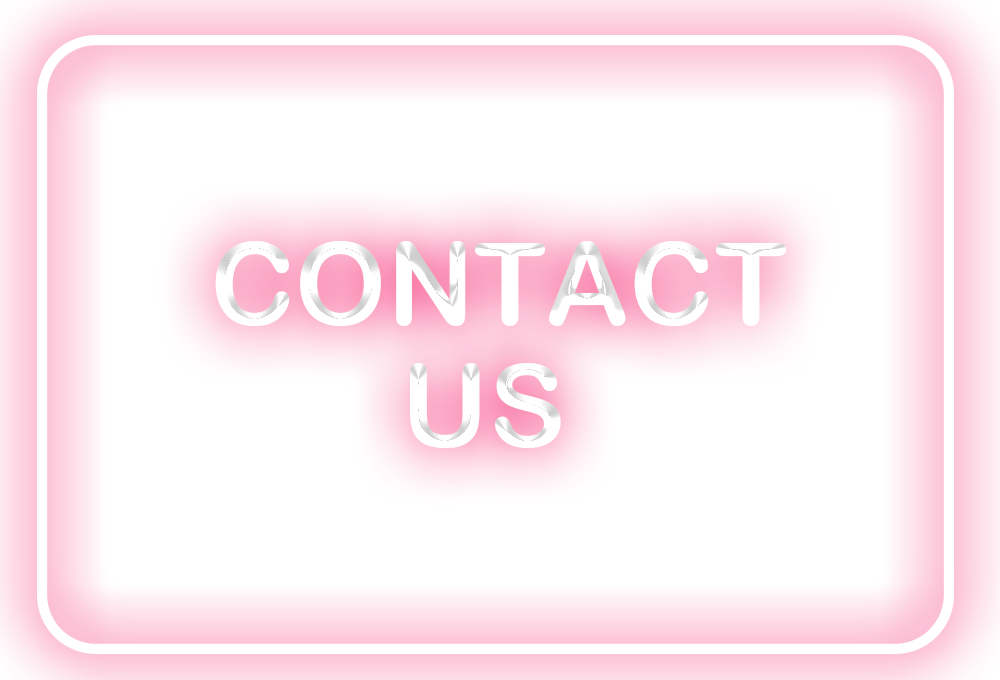
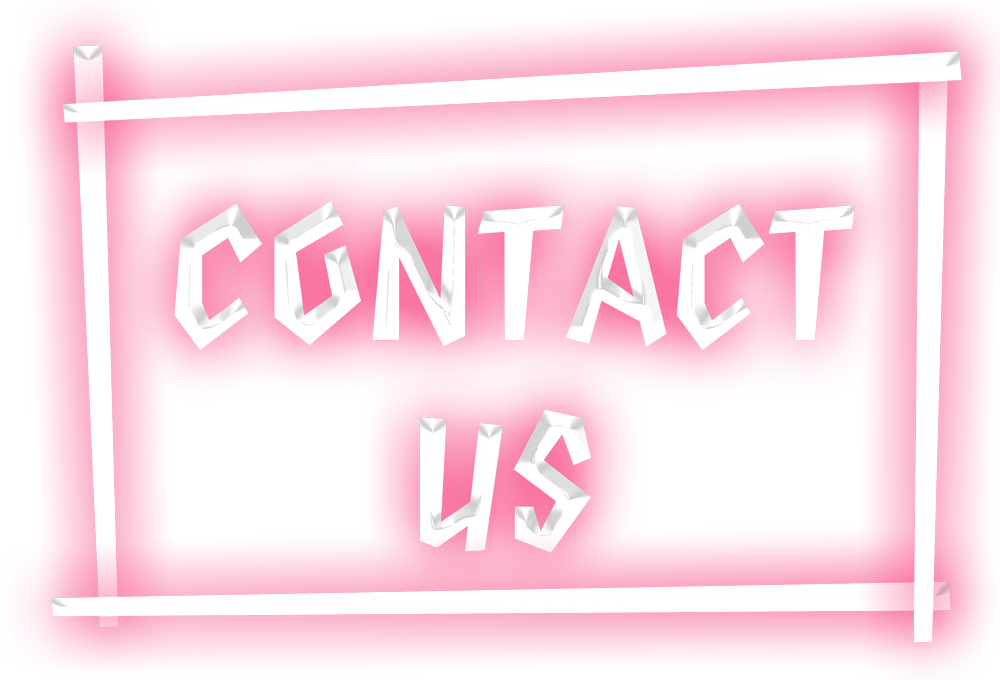
indexのちょい変更

diff --git a/re_css/style.css b/re_css/style.css
@@ -497,7 +497,8 @@
   transition: 0.5s;
 }
 .viewmore:hover {
-  filter: brightness(70%);
+  filter: brightness(200%);
+  transform: rotate(5deg);
 }
 @media screen and (max-width: 1024px) {
   .viewmore {
@@ -756,8 +757,12 @@
   font-weight: 700;
   font-style: normal;
   font-size: 6rem;
+  width: 30%;
   color: #fff;
   text-align: center;
+}
+.contact_button img {
+  width: 100%;
 }
 @media screen and (max-width: 768px) {
   .contact_button {
@@ -1059,9 +1064,28 @@ body {
   position: relative;
   z-index: 1;
   background-image: url(../img/back.png);
+  background-position: 0 0;
   background-size: auto;
   width: 100%;
   overflow: hidden;
+  -webkit-animation: bgroop 50s linear infinite;
+          animation: bgroop 50s linear infinite;
+}
+@-webkit-keyframes bgroop {
+  from {
+    background-position: 0 0;
+  }
+  to {
+    background-position: -1985px 0;
+  }
+}
+@keyframes bgroop {
+  from {
+    background-position: 0 0;
+  }
+  to {
+    background-position: -1985px 0;
+  }
 }
 
 *,
@@ -1195,5 +1219,6 @@ a {
   width: 20%;
 }
 .link_button:hover {
-  filter: brightness(70%);
+  filter: brightness(200%);
+  transform: rotate(5deg);
 }/*# sourceMappingURL=style.css.map */

diff --git a/re_css/_sets.scss b/re_css/_sets.scss
@@ -11,9 +11,20 @@ body {
   position: relative;
   z-index: 1;
   background-image: url(../img/back.png);
+  background-position: 0 0;
   background-size: auto;
   width: 100%;
   overflow: hidden;
+  animation: bgroop 50s linear infinite;
+  @keyframes bgroop {
+    from{
+      background-position: 0 0;
+    }
+    to{
+      background-position: -1985px 0;
+    }
+    
+  }
 }
 *,
 *::before,
@@ -110,7 +121,8 @@ a {
   transition: .5s;
   width: 20%;
   &:hover{
-    filter: brightness(70%);
+    filter: brightness(200%);
+    transform: rotate(5deg);
   }
 }
 // .neon-button{

diff --git a/re_css/_main.scss b/re_css/_main.scss
@@ -403,7 +403,8 @@
   width: 20%;
   transition: 0.5s;
   &:hover {
-    filter: brightness(70%);
+    filter: brightness(200%);
+    transform: rotate(5deg);
   }
   @include m.mq(tab) {
     width: 30%;
@@ -632,8 +633,12 @@
   font-weight: 700;
   font-style: normal;
   font-size: 6rem;
+  width: 30%;
   color: #fff;
   text-align: center;
+  img{
+    width: 100%;
+  }
   @include m.mq(sp) {
     margin: 0;
   }

diff --git a/index.html b/index.html
@@ -110,7 +110,7 @@
             </div>
         </div>
         <p class="OR">OR</p>
-        <p class="contact_button">CONTACT<br>US</p>
+        <div class="contact_button"><img src="img/contact_button.png" alt=""></div>
     </div>
         </div>
     </div>
